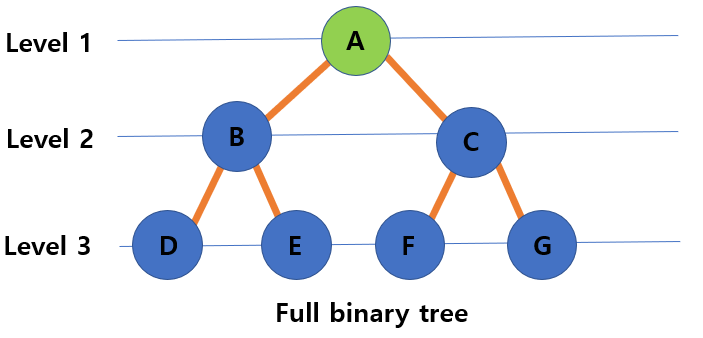
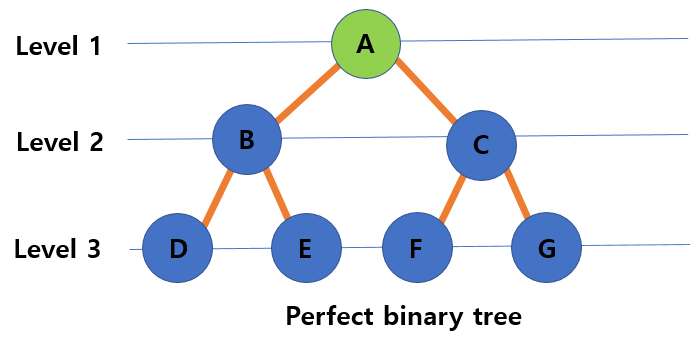
post modified

diff --git a/_posts/2020-06-11-Types of Binary tree.md b/_posts/2020-06-11-Types of Binary tree.md
@@ -18,7 +18,7 @@ categories: [Data Structure]
 
 ## Types of Binary Tree
 
-### 1. Full Binary Tree
+### 1. Perfect Binary Tree
 
 1. A full binary tree is a tree full of nodes at all levels.
    - Node has 2 children.
@@ -29,7 +29,7 @@ categories: [Data Structure]
 ![CQ2](/public/images/2tree1.PNG)
 
 A is full with B and C as children, and B is full with D and E, and C is full with F and G, so all levels are full.
-Therefore, this tree is a full binary tree.
+Therefore, this tree is a Perfect binary tree.
 
 ---
 
@@ -58,3 +58,26 @@ The tree on the left is a complete binary tree because it is filled with nodes f
 
 In the tree on the left, A has B as the left child, B has D as the left child, so it is the left skewed binary tree.
 In the tree on the right, A has B as the right child, B has D as the right child, so it is the right skewed binary tree.
+
+---
+
+### 4. Full Binary Tree
+
+1. A full binary tree is a tree in which all nodes have only 0 or 2 child nodes.
+2. 2 \* height + 1 <= Number of nodes n <= 2^(height+1) -1
+
+![CQ2](/public/images/2tree4.PNG)
+
+A has two child nodes B and C, B has two child nodes D and E, and C has no child node. So, this is a full binary tree.
+
+---
+
+### 5. Balanced Binary Tree
+
+1. A balanced binary tree is a tree in which height of the left and right sub-trees of all nodes does not differ by more than 1.
+
+![CQ2](/public/images/2tree6.PNG)
+
+The trees on the left can be seen that the height of the sub-trees on the left and right are not more than 1 difference.
+
+However, the trees on the right are not balanced because the height of the sub-trees on the left and right are more than 1 difference.
